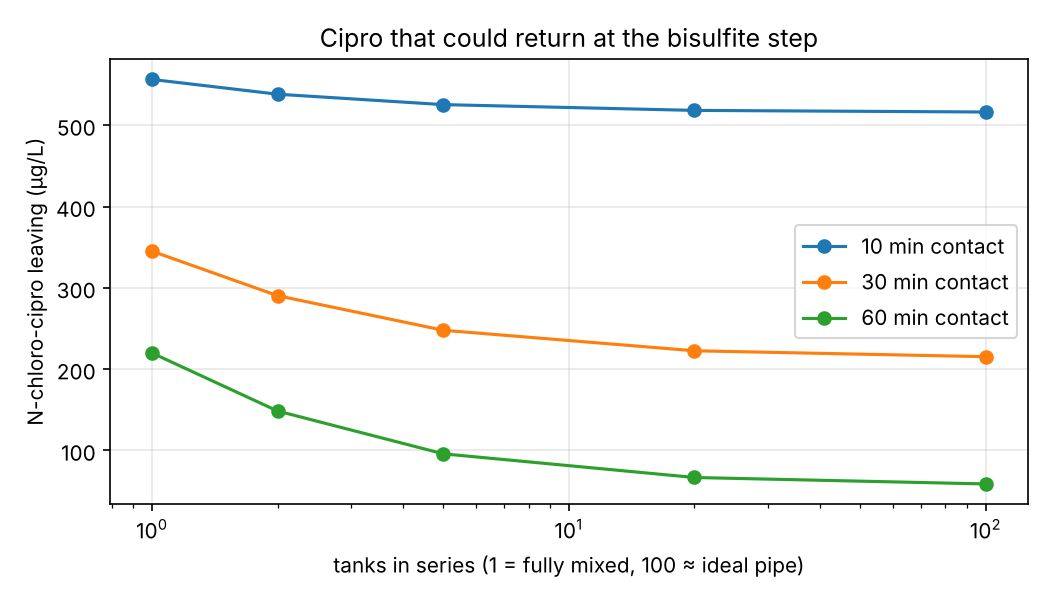
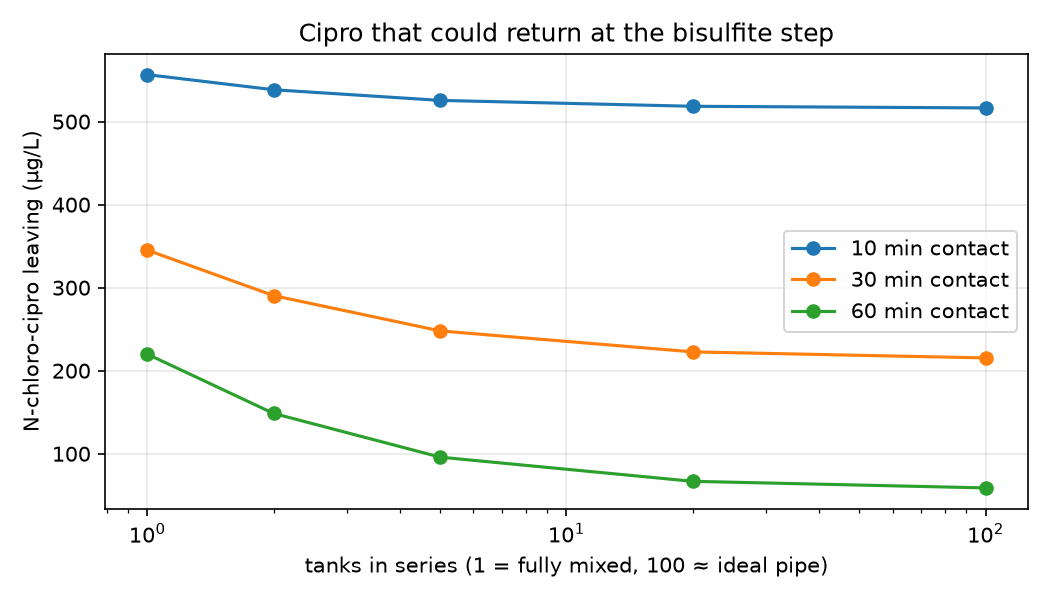
Plant case: San José chloramine scenario in model, app and bench preset
- ris/plant.py SAN_JOSE: 40 min, 1.8 mg/L (assumed dose), pH 7.0, NH3 0.5 mg N/L (ESTIMATE)
- run_all: bench base case pH 7.0 / 40 min, Gap 2 adds 40 min, new figure 9 plant case
- engine/app: 'sanjose' preset; app starts at pH 7.0, ammonia 0.5, discharge CT 72; bench pH 7.0
- sources.js: PLANT status for numbers the plant gave in writing

diff --git a/web/removed-is-not-safe.html b/web/removed-is-not-safe.html
@@ -810,10 +810,18 @@ const RISOPT = (function () {
             'contact time. Dose range widened to 30 mg/L because this CT needs a lot of chlorine.',
       inputs: { ctTarget: 450, minContact_min: 90, maxContact_min: 120, cipro_ugL: 1.0, activityLimit_ugL: 0.064,
                 doseRange: [1, 30], nDose: 30, timeRange: [60, 120], nTime: 13 } },
+    // San Jose-Santa Clara plant (plant's written answers, Nov 2026; mirrors ris/plant.py SAN_JOSE). Chloramine:
+    // 1.8 mg/L (assumed to be the dose) with ammonia, pH 7.0, ~40 min. CT target 72 = 1.8 mg/L x 40 min, what the plant
+    // runs today (CALCULATED, not a permit value). Ammonia 0.5 mg N/L is an ESTIMATE (Zone 2, below 5:1 Cl2:N).
+    { id: 'sanjose', label: 'San Jose-Santa Clara plant (chloramine)',
+      note: 'Chloramine like the San Jose-Santa Clara plant: pH 7.0, ammonia 0.5 mg N/L (estimate), CT target ' +
+            '72 mg*min/L = its 1.8 mg/L for 40 min today. 1 ug/L ciprofloxacin coming in.',
+      inputs: { pH: 7.0, NH3_mgN_L: 0.5, ctTarget: 72, minContact_min: 0, maxContact_min: 120, cipro_ugL: 1.0,
+                activityLimit_ugL: 0.064, doseRange: [0.5, 20], nDose: 40, timeRange: [5, 120], nTime: 24 } },
     { id: 'bench', label: 'Bench batch reactor',
-      note: 'The school lab run: 1000 ug/L ciprofloxacin in a beaker at pH 7.5, so HPLC can see it. The limit is ' +
-            'scaled to the same fraction of the starting amount (6.4 % = 64 ug/L).',
-      inputs: { pH: 7.5, NH3_mgN_L: 0, cipro_ugL: 1000, activityLimit_ugL: 64, ctTarget: 300, minContact_min: 0,
+      note: 'The school lab run: 1000 ug/L ciprofloxacin in a beaker at pH 7.0 (the plant\'s pH), so HPLC can see it. ' +
+            'The limit is scaled to the same fraction of the starting amount (6.4 % = 64 ug/L).',
+      inputs: { pH: 7.0, NH3_mgN_L: 0, cipro_ugL: 1000, activityLimit_ugL: 64, ctTarget: 300, minContact_min: 0,
                 maxContact_min: 120, doseRange: [0.5, 20], nDose: 40, timeRange: [5, 120], nTime: 24 } },
   ];
 
@@ -2135,9 +2143,10 @@ if (typeof module !== 'undefined') module.exports = RISOPT;
   const KEY = 'chlorine-studio-v1';
 
   // ------------------------------------------------------------------ state
-  // Starting pH 7.0: the San Jose-Santa Clara plant's water is pH 6.9-7.0 (plant's written reply, Nov 16 2026; personal communication).
-  // The user can change it. Ammonia still starts at 0 (free chlorine) although that plant chloraminates: a research decision, not changed here.
-  const S = { picked: false, pH: 7.0, nh3: 0, source: 'plant', permit: 'discharge', ct: 300, flow: 110, saved: [], grid: null, gridKey: '', running: null };
+  // Starting values match the San Jose-Santa Clara plant (written answers, Nov 2026; personal communication): pH 7.0 (6.9-7.0),
+  // ammonia 0.5 mg N/L (ESTIMATE: the plant adds ammonia to make chloramine, level not given), CT 72 mg*min/L (1.8 mg/L x 40 min,
+  // CALCULATED, assuming 1.8 is the dose). All three are starting points the user can change. Mirrors ris/plant.py and the 'sanjose' preset.
+  const S = { picked: false, pH: 7.0, nh3: 0.5, source: 'plant', permit: 'discharge', ct: 72, flow: 110, saved: [], grid: null, gridKey: '', running: null };
   const A = { hist: [], mode: 'auto', applied: null, since: 0, log: [], read: null, rec: null, cell: null, inp: null, t: 0, at: 0, busy: false };
   function save() { try { localStorage.setItem(KEY, JSON.stringify({ pH: S.pH, nh3: S.nh3, source: S.source, permit: S.permit, picked: S.picked, ct: S.ct, flow: S.flow, saved: S.saved.slice(0, 30), mode: A.mode, log: A.log.slice(0, 40), applied: A.applied, since: A.since })); } catch (e) { /* storage blocked */ } }
   function load() {
@@ -2158,12 +2167,12 @@ if (typeof module !== 'undefined') module.exports = RISOPT;
   }
 
   const PERMITS = {
-    discharge: { name: 'Discharge to a river or bay', note: 'Disinfection target of 300 mg·min/L. An example value: use the one in your permit.' },
+    discharge: { name: 'Discharge to a river or bay', note: 'Disinfection target of 72 mg·min/L: what the San José–Santa Clara plant runs today (1.8 mg/L chloramine for 40 min). Use your permit’s value if it differs.' },
     reuse: { name: 'Recycled water (California Title 22)', note: 'At least 450 mg·min/L and at least 90 minutes of contact.' },
     custom: { name: 'My own target', note: 'Type the disinfection target from your permit.' },
   };
   function inputs(pH) {
-    const inp = RISOPT.withPreset(S.permit === 'reuse' ? 'title22' : 'secondary');
+    const inp = RISOPT.withPreset(S.permit === 'reuse' ? 'title22' : 'sanjose');
     inp.pH = pH == null ? S.pH : pH; inp.NH3_mgN_L = S.nh3;
     if (S.permit === 'custom') inp.ctTarget = S.ct;
     if (S.source === 'bench') { inp.cipro_ugL = 1000; inp.activityLimit_ugL = 64; }
@@ -2277,7 +2286,7 @@ if (typeof module !== 'undefined') module.exports = RISOPT;
           '<section class="q"><div class="rowv">' + hd('ph', 'pH', 'ph') + '<span class="tag" id="ph-tag">' + phWord(S.pH) + '</span></div><p class="big" id="ph-v">' + S.pH.toFixed(1) + '</p>' +
           '<input type="range" id="ph" min="6" max="9" step="0.1" value="' + S.pH + '" aria-label="pH"><div class="scale"><span>6 acidic</span><span>7.5</span><span>9 basic</span></div></section>' +
           '<section class="q"><div class="rowv">' + hd('nh3', 'Ammonia', 'nh3') + '</div><p class="big" id="nh-v">' + S.nh3.toFixed(1) + '<small>mg N/L</small></p>' +
-          '<input type="range" id="nh" min="0" max="5" step="0.1" value="' + S.nh3 + '" aria-label="Ammonia, mg N per litre"><p class="hint">Leave it at 0 if you don’t know. Ammonia turns chlorine into slower-acting chloramine.</p></section>' +
+          '<input type="range" id="nh" min="0" max="5" step="0.1" value="' + S.nh3 + '" aria-label="Ammonia, mg N per litre"><p class="hint">Starts at 0.5, our estimate for a plant that adds ammonia to make chloramine, like San José. Set 0 for free chlorine.</p></section>' +
           '<section class="q" id="flowq"' + (S.source === 'bench' ? ' hidden' : '') + '>' + hd('flow', 'How much water does your plant treat?') + '<div class="stepper"><button type="button" data-fd="-1" aria-label="Less">−</button><input id="flow" inputmode="decimal" value="' + S.flow + '" aria-label="Plant flow, million gallons per day"><button type="button" data-fd="1" aria-label="More">+</button></div><p class="hint">Million gallons a day. 110 is the San José–Santa Clara average, shown as an example. It sets the size of your impact number.</p></section>' +
           '<button class="cta" data-go="rules">Next: pick your rule</button>';
       },
@@ -2311,8 +2320,8 @@ if (typeof module !== 'undefined') module.exports = RISOPT;
         const ct = $('ct');
         const setCt = (v) => { S.ct = Math.min(2000, Math.max(10, Math.round(v))); ct.value = S.ct; save(); };
         view.querySelectorAll('.stepper button').forEach((b) => b.addEventListener('click', () => setCt(S.ct + +b.dataset.d)));
-        ct.addEventListener('change', () => setCt(+ct.value || 300));
-        $('go').addEventListener('click', () => { if (S.permit === 'custom') setCt(+ct.value || 300); wipe(() => { S.grid = null; go('result'); }); });
+        ct.addEventListener('change', () => setCt(+ct.value || 72));
+        $('go').addEventListener('click', () => { if (S.permit === 'custom') setCt(+ct.value || 72); wipe(() => { S.grid = null; go('result'); }); });
       },
     },
     result: {
@@ -2524,7 +2533,7 @@ if (typeof module !== 'undefined') module.exports = RISOPT;
     ph: { ic: 'ph', t: 'pH', what: 'pH decides how strong the chlorine is. Below about pH 7.5 most of it is hypochlorous acid, the fast-acting form. Above it, more turns into hypochlorite, which disinfects far more slowly, so higher pH needs more chlorine.',
       how: 'Take a sample where the water enters the contact basin and read it with a calibrated pH meter, or use the plant’s online pH probe. Test strips only give a rough number: fine for a first look, not for setting a dose.' },
     nh3: { ic: 'nh3', t: 'Ammonia', what: 'Ammonia reacts with chlorine within seconds and turns it into chloramine. Chloramine still disinfects but much more slowly, and it barely touches the antibiotic, so ammonia changes the answer a lot.',
-      how: 'Use an ammonia-nitrogen test kit (salicylate method) or an ammonia probe on the same sample. Read the result as mg N/L, the nitrogen in the ammonia. Plants that remove nitrogen usually read well under 1.' },
+      how: 'Use an ammonia-nitrogen test kit (salicylate method) or an ammonia probe on the same sample. Read the result as mg N/L, the nitrogen in the ammonia. Plants that remove nitrogen usually read well under 1, unless they add ammonia on purpose to make chloramine, as the San José–Santa Clara plant does.' },
     ct: { ic: 'gauge', t: 'Disinfection target (CT)', what: 'CT is the chlorine left in the water multiplied by the minutes it stays in the contact basin, in mg·min/L. Permits set a minimum CT so bacteria and viruses are killed. California Title 22 recycled water needs at least 450, with at least 90 minutes of contact.',
       how: 'Measure leftover chlorine at the end of the basin with a DPD test kit or an online chlorine analyzer, and multiply by the contact time. The contact time itself comes from a dye tracer test on the basin.' },
     act: { ic: 'bug', t: 'Antibiotic activity left', what: 'How strongly the treated water could still slow bacteria, counted as if it were all ciprofloxacin. Chlorine breaks ciprofloxacin into products that keep the part of the molecule that attacks bacteria, so “drug removed” is not the same as “safe”. The limit, 0.064 µg/L, is the level below which ciprofloxacin is not expected to favour resistant bacteria (Bengtsson-Palme and Larsson, 2016).',

diff --git a/web/optimizer/sources.js b/web/optimizer/sources.js
@@ -9,6 +9,7 @@
 //   MEASURED     from our own lab data (none yet)
 //   LITERATURE   a published value, with the citation
 //   REGULATION   a value set by a rule or permit, with the rule
+//   PLANT        stated by the San José plant in writing (personal communication, not published)
 //   CALCULATED   follows from other values (stoichiometry, unit conversion)
 //   ESTIMATE     our own reading of a published figure or text; the paper does not give the number directly
 //   EXAMPLE      an illustrative setting, not a real plant's
@@ -100,6 +101,14 @@ const RISSOURCES = (function () {
       source: 'California Title 22, section 60301.230 (disinfected tertiary recycled water).' },
     { preset: 'title22', path: ['minContact_min'], group: 'Plant', label: 'Minimum modal contact time, Title 22 preset', unit: 'min', status: 'REGULATION',
       source: 'California Title 22, section 60301.230.' },
+    { preset: 'sanjose', path: ['pH'], group: 'Plant', label: 'pH, San José preset', unit: '', status: 'PLANT',
+      source: 'San José–Santa Clara plant, written answers to our questions (personal communication, Nov 2026): pH 6.9–7.0.' },
+    { preset: 'sanjose', path: ['NH3_mgN_L'], group: 'Plant', label: 'Ammonia, San José preset', unit: 'mg N/L', status: 'ESTIMATE',
+      source: 'The plant adds ammonia and stays in Zone 2 of the breakpoint curve (written answers, Nov 2026) but gave no ammonia level. 0.5 keeps 1.8 mg/L chlorine below the 5:1 Cl₂:N ratio.' },
+    { preset: 'sanjose', path: ['ctTarget'], group: 'Plant', label: 'CT target, San José preset', unit: 'mg·min/L', status: 'CALCULATED',
+      source: '1.8 mg/L × 40 min, from the plant\'s written answers (Nov 2026), assuming 1.8 mg/L is the dose and nearly all of it lasts as chloramine. What the plant runs today, not a permit value.' },
+    { preset: 'bench', path: ['pH'], group: 'Bench run', label: 'pH in the beaker', unit: '', status: 'EXAMPLE',
+      source: 'Set to 7.0 to match the San José plant (pH 6.9–7.0, written answers, Nov 2026). Phosphate buffer.' },
     { preset: 'bench', path: ['cipro_ugL'], group: 'Bench run', label: 'Ciprofloxacin in the beaker', unit: 'µg/L', status: 'EXAMPLE',
       source: 'Planned school-lab concentration, high enough for HPLC-UV to see.' },
     { preset: 'bench', path: ['activityLimit_ugL'], group: 'Bench run', label: 'Activity limit, bench preset', unit: 'µg/L', status: 'PLACEHOLDER',

diff --git a/web/optimizer/engine.js b/web/optimizer/engine.js
@@ -57,10 +57,18 @@ const RISOPT = (function () {
             'contact time. Dose range widened to 30 mg/L because this CT needs a lot of chlorine.',
       inputs: { ctTarget: 450, minContact_min: 90, maxContact_min: 120, cipro_ugL: 1.0, activityLimit_ugL: 0.064,
                 doseRange: [1, 30], nDose: 30, timeRange: [60, 120], nTime: 13 } },
+    // San Jose-Santa Clara plant (plant's written answers, Nov 2026; mirrors ris/plant.py SAN_JOSE). Chloramine:
+    // 1.8 mg/L (assumed to be the dose) with ammonia, pH 7.0, ~40 min. CT target 72 = 1.8 mg/L x 40 min, what the plant
+    // runs today (CALCULATED, not a permit value). Ammonia 0.5 mg N/L is an ESTIMATE (Zone 2, below 5:1 Cl2:N).
+    { id: 'sanjose', label: 'San Jose-Santa Clara plant (chloramine)',
+      note: 'Chloramine like the San Jose-Santa Clara plant: pH 7.0, ammonia 0.5 mg N/L (estimate), CT target ' +
+            '72 mg*min/L = its 1.8 mg/L for 40 min today. 1 ug/L ciprofloxacin coming in.',
+      inputs: { pH: 7.0, NH3_mgN_L: 0.5, ctTarget: 72, minContact_min: 0, maxContact_min: 120, cipro_ugL: 1.0,
+                activityLimit_ugL: 0.064, doseRange: [0.5, 20], nDose: 40, timeRange: [5, 120], nTime: 24 } },
     { id: 'bench', label: 'Bench batch reactor',
-      note: 'The school lab run: 1000 ug/L ciprofloxacin in a beaker at pH 7.5, so HPLC can see it. The limit is ' +
-            'scaled to the same fraction of the starting amount (6.4 % = 64 ug/L).',
-      inputs: { pH: 7.5, NH3_mgN_L: 0, cipro_ugL: 1000, activityLimit_ugL: 64, ctTarget: 300, minContact_min: 0,
+      note: 'The school lab run: 1000 ug/L ciprofloxacin in a beaker at pH 7.0 (the plant\'s pH), so HPLC can see it. ' +
+            'The limit is scaled to the same fraction of the starting amount (6.4 % = 64 ug/L).',
+      inputs: { pH: 7.0, NH3_mgN_L: 0, cipro_ugL: 1000, activityLimit_ugL: 64, ctTarget: 300, minContact_min: 0,
                 maxContact_min: 120, doseRange: [0.5, 20], nDose: 40, timeRange: [5, 120], nTime: 24 } },
   ];
 

diff --git a/scripts/run_all.py b/scripts/run_all.py
@@ -7,9 +7,12 @@ from scipy.integrate import solve_ivp
 
 ROOT = pathlib.Path(__file__).resolve().parents[1]
 sys.path.insert(0, str(ROOT))
-from ris import chlorine_backbone as cb, cipro_model as cm, flow_reactor as fr
+from ris import chlorine_backbone as cb, cipro_model as cm, flow_reactor as fr, plant
 
 FIG, OUT = ROOT / "figures", {}
+# Bench (beaker) base case, matched to the plant (Nov 16): pH 7.0 like the plant's 6.9-7.0 and 40 min like its contact
+# time. 5 mg/L free chlorine and 1 mg/L cipro stay as before so HPLC can see the products.
+BENCH = dict(pH=plant.SAN_JOSE["pH"], Cl_dose_mgL=5.0, cipro_mgL=1.0, contact_min=plant.SAN_JOSE["contact_min"])
 FIG.mkdir(exist_ok=True)
 plt.rcParams.update({"figure.dpi": 150, "axes.grid": True, "grid.alpha": 0.3})
 
@@ -22,11 +25,11 @@ def save(name):
 fig, ax = plt.subplots(1, 2, figsize=(10, 3.8))
 for nh3 in [0, 0.5, 2]:
     y0 = [cb.mgL_Cl2_to_M(5), cb.mgN_L_to_M(nh3), 0, 0]
-    s = solve_ivp(lambda t, y: cb.backbone_rates(*y[:3], 7.5)[0], [0, 1800], y0, method="LSODA",
-                  t_eval=np.linspace(0, 1800, 300), rtol=1e-8, atol=1e-14)
+    s = solve_ivp(lambda t, y: cb.backbone_rates(*y[:3], BENCH["pH"])[0], [0, 2400], y0, method="LSODA",
+                  t_eval=np.linspace(0, 2400, 300), rtol=1e-8, atol=1e-14)
     ax[0].plot(s.t / 60, cb.M_to_mgL_Cl2(s.y[0]), label=f"free Cl, NH3 {nh3}")
     ax[0].plot(s.t / 60, cb.M_to_mgL_Cl2(s.y[2]), "--", label=f"chloramine, NH3 {nh3}")
-ax[0].set(xlabel="min", ylabel="mg/L as Cl2", title="Chlorine, pH 7.5 (NH3 in mg N/L)"); ax[0].legend(fontsize=7)
+ax[0].set(xlabel="min", ylabel="mg/L as Cl2", title=f"Chlorine, pH {BENCH['pH']} (NH3 in mg N/L)"); ax[0].legend(fontsize=7)
 pH = np.linspace(5, 10, 200)
 ax[1].plot(pH, cb.speciation(pH)[0], label="HOCl fraction")
 for name, frac in zip(["cipro cation", "cipro neutral", "cipro anion"], cm.cipro_fractions(pH)):
@@ -34,9 +37,9 @@ for name, frac in zip(["cipro cation", "cipro neutral", "cipro anion"], cm.cipro
 ax[1].set(xlabel="pH", ylabel="fraction", title="Speciation"); ax[1].legend(fontsize=7)
 save("1_chlorine_and_speciation.png")
 
-# 2. Cipro time course (beaker, 30 min, then bisulfite)
-res, sol = cm.run_batch()
-OUT["base_case"] = {"conditions": "pH 7.5, 5 mg/L Cl2, no NH3, 1 mg/L cipro, 30 min, 5 min after bisulfite",
+# 2. Cipro time course (beaker, 40 min, then bisulfite)
+res, sol = cm.run_batch(**BENCH)
+OUT["base_case"] = {"conditions": f"pH {BENCH['pH']}, 5 mg/L Cl2, no NH3, 1 mg/L cipro, {BENCH['contact_min']} min, 5 min after bisulfite",
                     **{k: round(v, 2) for k, v in res.items()}}
 tm = sol.t / 60
 plt.figure(figsize=(7, 4))
@@ -44,7 +47,7 @@ for i, lab in [(4, "cipro"), (5, "N-chloro-cipro"), (6, "P1 (CF-Pa1)"), (7, "P2 
     plt.plot(tm, cm.M_to_ugL(sol.y[i]), label=lab)
 plt.plot(tm, cm.M_to_ugL(sol.y[4] + sol.y[5]), "k--", lw=1, label="'cipro' read after thiosulfate")
 plt.xscale("symlog", linthresh=1); plt.xlabel("min"); plt.ylabel("µg/L cipro-equivalent")
-plt.title("Cipro + 5 mg/L chlorine, pH 7.5 (all products keep the quinolone core)"); plt.legend(fontsize=7)
+plt.title(f"Cipro + 5 mg/L chlorine, pH {BENCH['pH']} (all products keep the quinolone core)"); plt.legend(fontsize=7)
 save("2_cipro_time_course.png")
 
 # 3. Sensitivity
@@ -52,7 +55,7 @@ outs = ["cipro_out_ugL", "NCL_out_ugL", "P1_out_ugL"]
 rows = []
 for k, (lo, hi) in cm.RANGES.items():
     for v in (lo, hi):
-        r, _ = cm.run_batch(p=dict(cm.CIPRO, **{k: v}))
+        r, _ = cm.run_batch(**BENCH, p=dict(cm.CIPRO, **{k: v}))
         rows.append([k, v] + [r[o] - res[o] for o in outs])
 sens = pd.DataFrame(rows, columns=["constant", "value"] + outs)
 swing = sens.groupby("constant", sort=False)[outs].agg(lambda x: x.abs().max())
@@ -99,8 +102,8 @@ plt.legend(); save("5_flow_mixing.png")
 # 6. Gap 2 scenarios
 plt.figure(figsize=(7, 4))
 krev = [0, 1e-3, 3e-3, 1e-2, 1e-1]
-for ct in [10, 30, 60]:
-    back = [cm.run_batch(contact_min=ct, p=dict(cm.CIPRO, k_rev_bisulfite=k))[0]["cipro_out_ugL"] for k in krev]
+for ct in [10, 30, 40, 60]:     # 40 = the plant's contact time
+    back = [cm.run_batch(**dict(BENCH, contact_min=ct), p=dict(cm.CIPRO, k_rev_bisulfite=k))[0]["cipro_out_ugL"] for k in krev]
     plt.plot([max(k, 1e-4) for k in krev], np.array(back) / 10, "o-", label=f"{ct} min contact")
 plt.xscale("log"); plt.xlabel("bisulfite reversal speed k_rev (s⁻¹; leftmost point = 0)")
 plt.ylabel("% of starting cipro back after bisulfite"); plt.title("Gap 2: how much cipro could return")
@@ -152,6 +155,21 @@ def chosen_coil(length_m, former_mm):
     return row
 OUT["chosen_coil"] = {"coil_30_min": chosen_coil(3.8, 114), "coil_60_min": chosen_coil(7.6, 114), "straight_30_min": chosen_coil(3.8, None),
     "old_shortcut_30_min_ugL": round(fr.run_tube(3.175, 3.8, 1.0, 114, flow="tanks")[0]["cipro_thiosulfate_ugL"], 1)}
+
+# 9. The San José plant as it runs (added 11-16): ~1.8 mg/L chlorine with ammonia (chloramine), pH 7.0, 40 min, then
+#    bisulfite. Compared with the same dose as free chlorine. Product activity is NOT computed here (potencies are
+#    placeholders in the web engine); this reports the cipro-equivalent amounts that keep the quinolone core.
+SJ = plant.SAN_JOSE
+OUT["plant_case_san_jose"] = {"conditions": SJ, "note": "ammonia 0.5 mg N/L is an ESTIMATE; 1.8 mg/L assumed to be the dose"}
+plt.figure(figsize=(7, 4))
+for name, nh3, ls in [("chloramine (plant)", SJ["NH3_mgN_L"], "-"), ("free chlorine, same dose", 0.0, "--")]:
+    r, s = cm.run_batch(**dict(SJ, NH3_mgN_L=nh3))
+    OUT["plant_case_san_jose"][name] = {k: round(v, 4) for k, v in r.items()}
+    for i, lab in [(4, "cipro"), (5, "N-chloro-cipro"), (6, "P1"), (7, "P2")]:
+        plt.plot(s.t / 60, cm.M_to_ugL(s.y[i]), ls, label=f"{lab}, {name}")
+plt.xlabel("min"); plt.ylabel("µg/L cipro-equivalent")
+plt.title(f"San José conditions: {SJ['Cl_dose_mgL']} mg/L, pH {SJ['pH']}, {SJ['contact_min']} min, 1 µg/L cipro")
+plt.legend(fontsize=6, ncol=2); save("9_plant_case_san_jose.png")
 
 (ROOT / "results.json").write_text(json.dumps(OUT, indent=2, default=float))
 print(json.dumps(OUT, indent=2, default=float))

diff --git a/ris/plant.py b/ris/plant.py
@@ -1,0 +1,32 @@
+"""
+plant.py  —  the San José–Santa Clara Regional Wastewater Facility as a model scenario
+=====================================================================================
+Plant numbers come from the plant's written answers to our questions (email, received by 2026-11-16;
+personal communication, not a published source). Chemistry constants stay in chlorine_backbone.py and
+cipro_model.py; this file only holds the operating conditions that run_batch() is called with.
+
+Temperature: the plant gave 20.9-24.9 C (October, final effluent after dechlorination). The model has no
+temperature term; Dodd 2005 measured its cipro rate constants at 22 C, inside that range, so they are used as is.
+"""
+
+SAN_JOSE = {
+    # ~40 min chlorine contact before dechlorination at average flow (plant's written answer 1).
+    "contact_min": 40,
+    # ~1.8 mg/L on average, "based on the volume of water passing" (plant's written answer 2).
+    # ASSUMPTION: this is the dose (chemical fed per volume of flow), not the end-of-basin residual.
+    # The wording describes a flow-paced feed rate, which is how a dose is worked out; a residual is read
+    # off an analyzer. Chloramine decays slowly, so the model's end residual is close to the dose anyway.
+    "Cl_dose_mgL": 1.8,
+    # pH 6.9-7.0 (plant's written answer 4).
+    "pH": 7.0,
+    # Ammonia present when chlorine is added, mg N/L. ESTIMATE: the plant adds ammonia to make chloramine and
+    # stays in Zone 2 of the breakpoint curve (answer 2), i.e. below the ~5:1 Cl2:N mass ratio where
+    # monochloramine peaks. 0.5 mg N/L gives 3.6:1 at 1.8 mg/L. The real ammonia level was not given.
+    "NH3_mgN_L": 0.5,
+    # EXAMPLE: typical effluent ciprofloxacin, same 1 ug/L as the web app's preset. Not a plant measurement.
+    "cipro_mgL": 0.001,
+    # EXAMPLE: time from bisulfite to discharge. Not given by the plant.
+    "after_bisulfite_min": 5,
+}
+# ASSUMPTION: ammonia and hypochlorite are added into the flowing water (run_batch's "together" chemistry),
+# not as chloramine made in a separate tank. The plant did not say which.

diff --git a/tests/test_model.py b/tests/test_model.py
@@ -178,3 +178,15 @@ def test_strong_swirl_falls_back_to_straight_tube_and_says_so():
     res, h = fr.run_tube(3.175, 20, 50, 100, n=2000)
     assert h["Dean"] > fr.DEAN_LIMIT and not h["swirl_used"] and "swirl dropped" in h["note"]
 
+
+
+def test_san_jose_plant_case_is_chloramine():
+    """Plant conditions (ris/plant.py): with ammonia in Zone 2, nearly all chlorine is chloramine and lasts the 40 min."""
+    from ris import plant
+    sj = plant.SAN_JOSE
+    assert (sj["pH"], sj["contact_min"], sj["Cl_dose_mgL"]) == (7.0, 40, 1.8)
+    assert sj["Cl_dose_mgL"] / sj["NH3_mgN_L"] < 5          # below the monochloramine peak (Zone 2)
+    r, _ = cm.run_batch(**sj)
+    assert r["FC_end_mgL"] < 0.01 and r["CC_end_mgL"] > 1.5
+    assert r["cipro_out_ugL"] < 0.01                         # parent drug gone ...
+    assert r["core_remaining_pct"] > 99                      # ... but the quinolone core is all still there

diff --git a/tests/test_optimizer.py b/tests/test_optimizer.py
@@ -187,9 +187,11 @@ def test_presets(js):
     assert t["rec"] and t["rec"]["t"] >= 90 and t["rec"]["ct"] >= 450
     assert p["secondary"]["inputs"]["ctTarget"] < 450 and p["secondary"]["rec"]
     b = p["bench"]["inputs"]
-    assert b["cipro_ugL"] == 1000 and b["pH"] == 7.5
+    assert b["cipro_ugL"] == 1000 and b["pH"] == 7.0             # bench matched to the plant's pH (Nov 16)
     assert abs(b["activityLimit_ugL"] / b["cipro_ugL"] - 0.064 / 1.0) < 1e-12        # same fraction of influent
     assert p["bench"]["rec"] and not p["bench"]["drug"]["passActivity"]
+    sj = p["sanjose"]["inputs"]                                    # mirrors ris/plant.py SAN_JOSE
+    assert (sj["pH"], sj["NH3_mgN_L"], sj["ctTarget"]) == (7.0, 0.5, 72)
 
 
 def test_sensitivity_same_setpoint_other_assumptions(js):

diff --git a/tests/test_sources.py b/tests/test_sources.py
@@ -21,7 +21,7 @@ console.log(JSON.stringify({
   rows: S.rows(RIS, RISOPT), modelKeys: Object.keys(RIS.DEFAULTS), tableKeys: S.MODEL.map(m => m.key),
   banner: S.notMeasured(RIS, RISOPT), defaults: RISOPT.DEFAULT_INPUTS }));
 """
-STATUSES = {"MEASURED", "LITERATURE", "REGULATION", "CALCULATED", "ESTIMATE", "EXAMPLE", "PLACEHOLDER", "UNKNOWN"}
+STATUSES = {"MEASURED", "LITERATURE", "REGULATION", "PLANT", "CALCULATED", "ESTIMATE", "EXAMPLE", "PLACEHOLDER", "UNKNOWN"}
 
 
 @pytest.fixture(scope="module")

diff --git a/ris/__init__.py b/ris/__init__.py
@@ -4,4 +4,5 @@ Modules
   chlorine_backbone  chlorine chemistry (speciation, chloramine, demand, CT)
   cipro_model        ciprofloxacin reactions (Dodd et al. 2005 constants), run_batch()
   flow_reactor       tanks-in-series contact chamber, tracer fitting, run_flow()
+  plant              San José–Santa Clara plant operating conditions (SAN_JOSE), from the plant's Nov 2026 answers
 """

diff --git a/web/CLAUDE.md b/web/CLAUDE.md
@@ -41,7 +41,7 @@ web/
    three.js loads from `web/vendor/`. Everything opens by double-click from `file://`.
 3. **No build step, no framework, no npm packages.** Plain ES2020 that also runs in Node 22 for the tests.
 4. **Statuses.** Every constant and preset value has one status in `sources.js`:
-   `MEASURED` (our lab) · `LITERATURE` (with citation) · `REGULATION` (with the rule) · `CALCULATED` · `ESTIMATE` (our
+   `MEASURED` (our lab) · `LITERATURE` (with citation) · `REGULATION` (with the rule) · `PLANT` (stated by the San José plant in writing; personal communication) · `CALCULATED` · `ESTIMATE` (our
    reading of a paper that doesn't give the number directly) · `EXAMPLE` (illustrative, such as the 300 mg·min/L CT) ·
    `PLACEHOLDER` (a guess waiting for data) · `UNKNOWN` (nobody has measured it). What the user types is a setting and
    needs no tag. `tests/test_sources.py` keeps the table complete and in step with the comments in `ris/*.py`.
